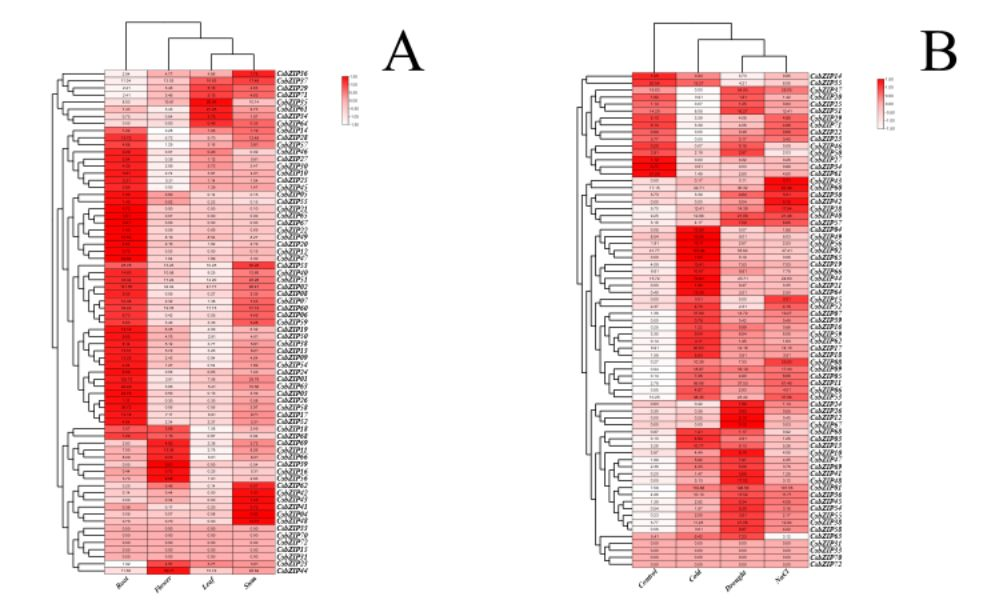
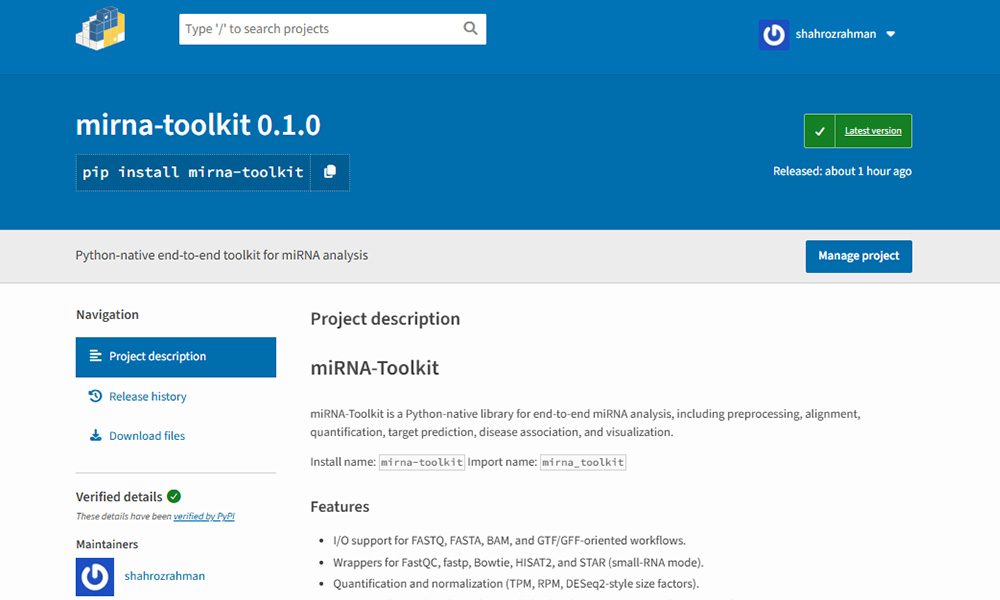
placed another featured work

diff --git a/index.html b/index.html
@@ -837,10 +837,13 @@
                 </div>
                 <div class="work-item neu-card fade-in" data-category="bioinformatics">
                     <div class="work-image">
-                        <img src="assets/img/works/5.jpg" alt="Gene Expression Analysis" loading="lazy">
+                        <img src="assets/img/works/5.jpg" alt="MiRNA-Toolkit Python Library" loading="lazy">
                         <div class="work-overlay">
-                            <span class="work-category">Bioinformatics</span>
-                            <h4>Gene Expression</h4>
+                            <span class="work-category">Python Library</span>
+                            <h4>MiRNA-Toolkit</h4>
+                            <a href="https://pypi.org/project/mirna-toolkit/" class="work-link" target="_blank" rel="noopener">
+                                <i class="fa-solid fa-arrow-up-right-from-square"></i>
+                            </a>
                         </div>
                     </div>
                 </div>
